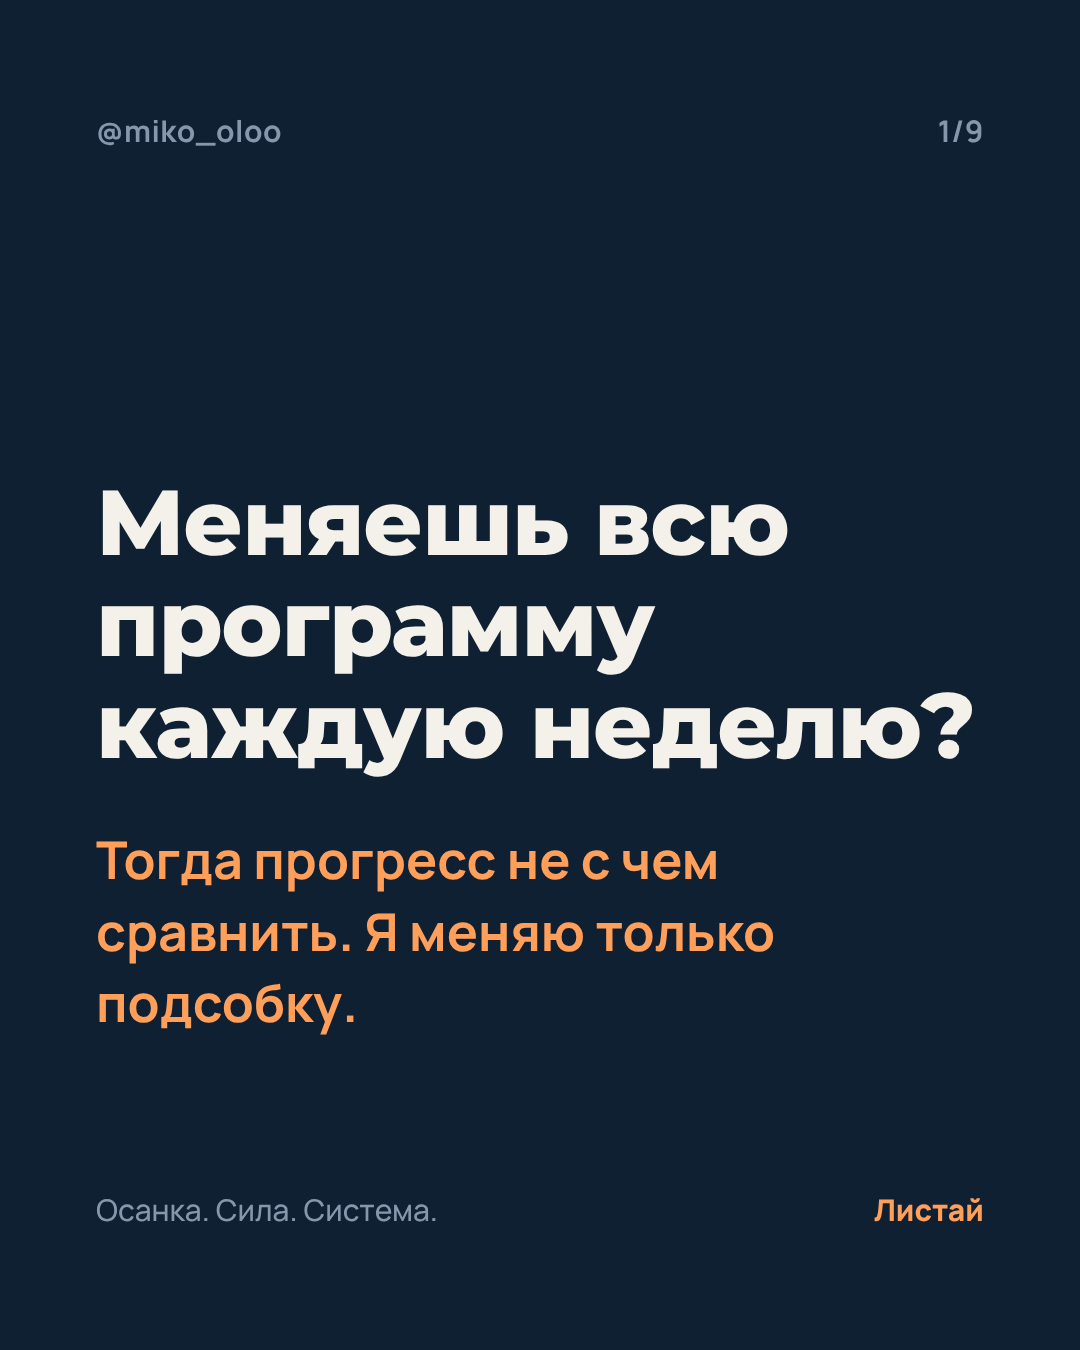
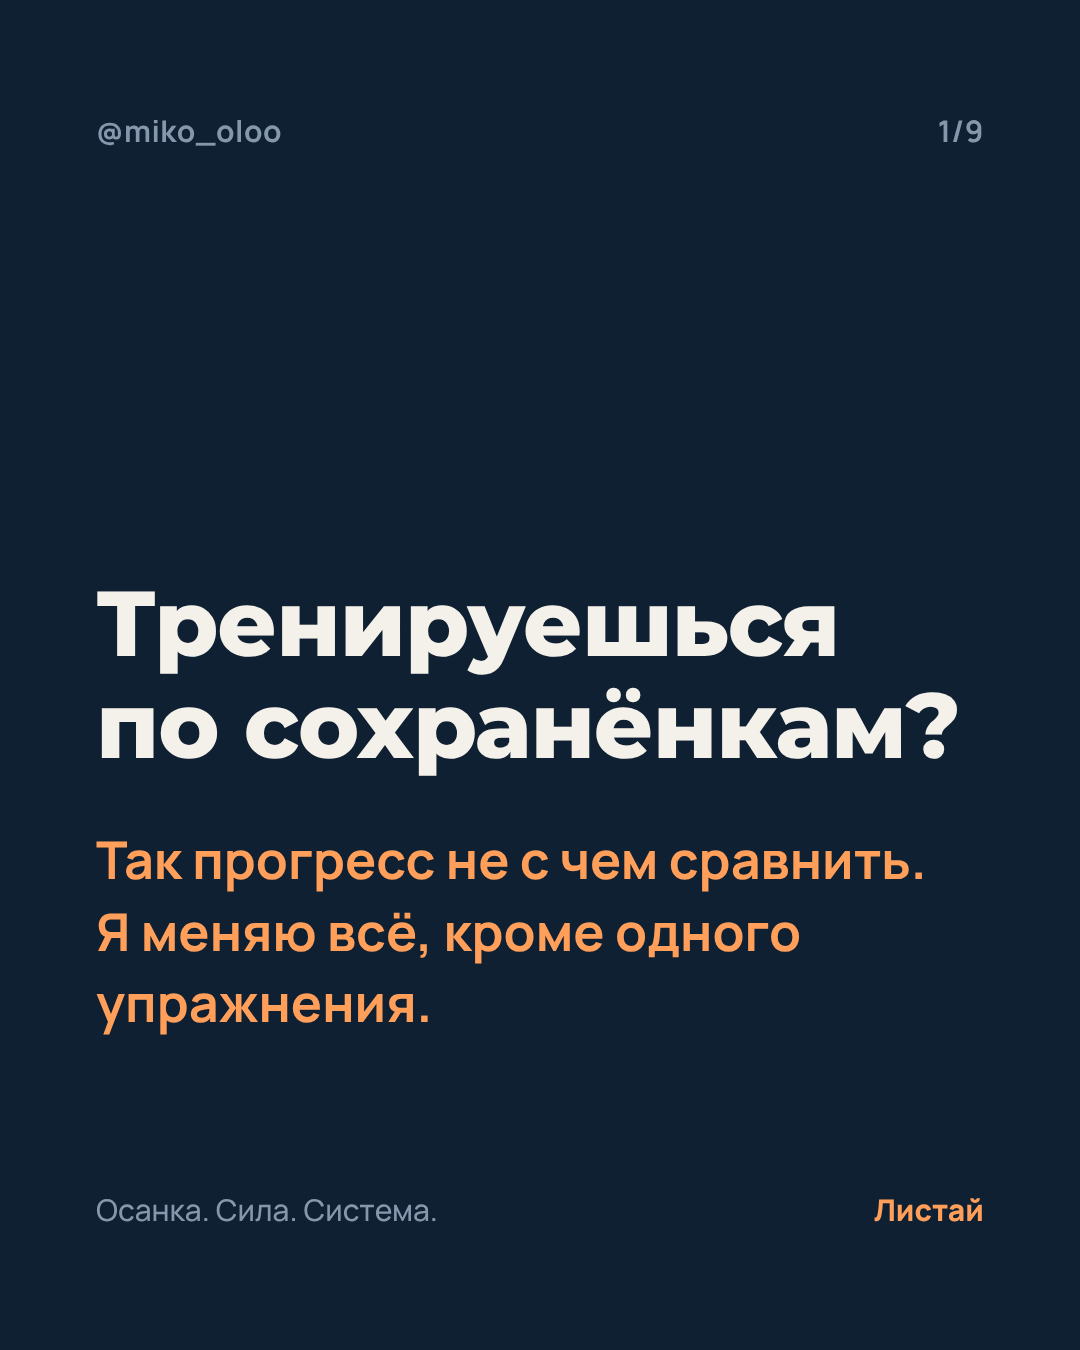
Карусели: новые хуки обложек от hook-master
Claude-Session: https://claude.ai/code/session_014b6iEBjPGyacsH4fnBbVwQ

Changed region(s): [[0.0917, 0.3422, 0.9167, 0.5911], [0.0917, 0.6222, 0.8556, 0.7778]]

diff --git a/content/carousels/render_slides.js b/content/carousels/render_slides.js
@@ -27,7 +27,7 @@ const fontFaces = ['manrope', 'montserrat', 'unbounded'].flatMap(f => [500, 700,
 }))).join('\n');
 
 const esc = s => s.replace(/&/g, '&amp;').replace(/</g, '&lt;').replace(/>/g, '&gt;');
-const mark = s => WORDS.reduce((t, w) => t.split(w).join(`<span class="kw">${w}</span>`), esc(s));
+const mark = s => WORDS.reduce((t, w) => t.split(w).join(`<span class="kw">${w}</span>`), esc(s)).replace(/\n/g, '<br>');
 
 function bodySize(text, cover, img) {
   if (cover) return 52;

diff --git a/content/PLAN_2_WEEKS.md b/content/PLAN_2_WEEKS.md
@@ -24,7 +24,7 @@
 | № | Дата и время МСК | Формат | Тема | Слово |
 |---|---|---|---|---|
 | 1 | Пн 26.10, 10:00 | Рилс, 30 с, серия ч.1 | Осанка за ноутбуком, ч.1: тест у стены | ОСАНКА |
-| 2 | Вт 27.10, 18:00 | Карусель, 9 слайдов | Стоишь как утка? Протокол сверху вниз | ОСАНКА |
+| 2 | Вт 27.10, 18:00 | Карусель, 9 слайдов | Утиная поясница? А я начинаю с шеи. Протокол сверху вниз | ОСАНКА |
 | 3 | Ср 28.10, 18:00 | Рилс, 30 с | Вес ушёл, а в зеркале мягче: похудение и сушка | СУШКА |
 | 4 | Чт 29.10, 18:00 | Карусель, 9 слайдов | Основное упражнение плюс подсобка | ПРОГРАММА |
 | 5 | Пт 30.10, 18:00 | Рилс, 60-75 с, серия ч.2 | Осанка за ноутбуком, ч.2: 4 упражнения без зала | ОСАНКА |
@@ -100,7 +100,7 @@
 
 ---
 
-## 2. Карусель. Стоишь как утка?
+## 2. Карусель. Утиная поясница? А я начинаю с шеи
 
 - **Дата и время:** вторник 27.10, 18:00 МСК
 - **Формат:** карусель, 9 слайдов. Обложка: твоё фото сбоку в зале, не стоковое
@@ -110,14 +110,14 @@
 - **Дальше:** в следующих двух неделях этот протокол продублировать рилс-серией "Таз вперёд, ч.1-4" (тест; шея и лопатки; поясница и бицепс бедра; ягодичные и стопа), одна часть в неделю
 
 **Хук (2 строки):**
-Стоишь как утка?
-Я начинаю исправлять это не с поясницы, а с шеи.
+Утиная поясница? А я начинаю с шеи.
+Это передний наклон таза. Поясницу я трогаю только через 2 недели.
 
 **Слайды:**
 
 | Слайд | Заголовок | Текст |
 |---|---|---|
-| 1 | Стоишь как утка? | Я начинаю исправлять это не с поясницы, а с шеи. Листай, покажу весь порядок. |
+| 1 | Утиная поясница? А я начинаю с шеи. | Это передний наклон таза. Поясницу я трогаю только через 2 недели. |
 | 2 | Самое частое нарушение у моих клиентов | Передний наклон таза. Сильный прогиб в пояснице, живот вперёд. Часто идёт в паре с сутулостью и шеей вперёд. Поэтому я иду по телу сверху вниз, а не латаю одну поясницу. |
 | 3 | Порядок | Шея и лопатки с первого дня. Через 2 недели поясница и бицепс бедра. Параллельно ягодичные, стопа, растяжка и пресс. |
 | 4 | Шея и лопатки | Сгибание шеи с блином. Тяга горизонтального блока в наклоне широким прямым хватом, локти в стороны, 4 по 15. Сначала лопатки, потом руки. Плечи от ушей. |
@@ -200,14 +200,14 @@
 - **JSON для рендера:** content/carousels/carousels.json, id `c2_osnovnoe_podsobka`
 
 **Хук (2 строки):**
-Меняешь всю программу каждую неделю?
-Тогда прогресс не с чем сравнить. Я меняю только подсобку.
+Тренируешься по сохранёнкам?
+Так прогресс не с чем сравнить. Я меняю всё, кроме одного упражнения.
 
 **Слайды:**
 
 | Слайд | Заголовок | Текст |
 |---|---|---|
-| 1 | Меняешь всю программу каждую неделю? | Тогда прогресс не с чем сравнить. Я меняю только подсобку. |
+| 1 | Тренируешься по сохранёнкам? | Так прогресс не с чем сравнить. Я меняю всё, кроме одного упражнения. |
 | 2 | Знаний хватает. Не хватает системы. | Куски информации есть у всех. Нет понимания, как они связаны и что делать, когда всё пошло не по плану. Схема "основное плюс подсобка" отвечает на это. |
 | 3 | Основное выбираю по уровню | Грудь: жим лёжа, жим гантелей или отжимания. Спина: подтягивания с весом, подтягивания или вертикальная тяга. Ноги: присед со штангой, жим ногами или гоблет-присед. Главное, чтобы ты делал его технично и мог расти. |
 | 4 | 4 правила основного | Минимум 4 рабочих подхода. Всегда первым, на свежую голову. На каждой тренировке этой группы. Никогда до отказа. |
@@ -228,7 +228,7 @@
 
 Так видно реальный прогресс: есть одно упражнение, по которому всё сравниваешь. А разнообразие даёт подсобка.
 
-Сохрани. Памятка в Telegram-боте: пиши ПРОГРАММА.
+Эту сохрани: тут система, а не очередная тренировка. Памятка в Telegram-боте: пиши ПРОГРАММА.
 ```
 
 **Хештеги:** #программатренировок #тренировки #силовыетренировки #жимлежа #прогресс #тренажерныйзал #фитнестренер
@@ -292,7 +292,7 @@
 | № | День | Что показать | Текст | Куда ведёт |
 |---|---|---|---|---|
 | 1 | Пн 26.10, после рилса 1 | Скрин рилса 1, стикер "Опрос" | "Ладонь проходит под поясницу? Да / Нет". Следующий кадр: "Полный самотест в боте. Ч.2 в пятницу" | Стикер-ссылка на бота, слово ОСАНКА |
-| 2 | Вт 27.10 | Видео 10 с: ты делаешь тягу блока в наклоне широким хватом | "Стоишь как утка? Вот с чего я начинаю. Не поясница, а лопатки. Весь порядок в новой карусели" | Репост карусели 2 + стикер-ссылка на бота (ОСАНКА) |
+| 2 | Вт 27.10 | Видео 10 с: ты делаешь тягу блока в наклоне широким хватом | "Утиная поясница? Вот с чего я начинаю. Не поясница, а лопатки. Весь порядок в новой карусели" | Репост карусели 2 + стикер-ссылка на бота (ОСАНКА) |
 | 3 | Ср 28.10 | Сантиметровая лента на твоей талии | "Вес или талия: на что смотришь ты?" стикер "Опрос". Следующий кадр: "Мой чек-лист сушки в боте" | Стикер-ссылка на бота, слово СУШКА |
 | 4 | Чт 29.10 | Кадр из зала: основное упражнение, рабочий подход | "Основное упражнение у меня всегда первое и никогда до отказа. Как собрать неделю, пришлёт бот" | Стикер-ссылка на бота, слово ПРОГРАММА |
 | 5 | Пт 30.10 | Ты у стены, дыхание у стены 5-7 с | "Ч.2 вышла: 4 упражнения, если весь день сидел. Самотест в боте" | Репост рилса 5 + стикер-ссылка на бота, слово ОСАНКА |
@@ -310,16 +310,16 @@
 - **JSON для рендера:** content/carousels/carousels.json, id `c3_pyat_pravil_sushki`
 
 **Хук (2 строки):**
-Режешь калории больше чем на 20%?
-Сушка держится на 5 цифрах, и это первая.
+С понедельника на 1200 калорий?
+Сушка держится на 5 цифрах. 1200 среди них нет.
 
 **Слайды:**
 
 | Слайд | Заголовок | Текст |
 |---|---|---|
-| 1 | Режешь калории больше чем на 20%? | Сушка держится на 5 цифрах, и это первая. Сохрани все пять. |
+| 1 | С понедельника на 1200 калорий? | Сушка держится на 5 цифрах. 1200 среди них нет. |
 | 2 | Сначала про цель | Приходят со словами "хочу похудеть". Похудение это минус вес любой ценой: уходят жир, вода и мышцы. Сушка это минус жир при сохранении мышц. Цель не цифра на весах, а форма. |
-| 3 | 1. Дефицит 15-20% | От твоей поддержки, не больше. Формула даёт только старт. Реальную норму показывают первые 2-3 недели. |
+| 3 | 1. Дефицит 15-20% | Не 1200 для всех, а 15-20% от твоей поддержки. Формула даёт только старт. Реальную норму показывают первые 2-3 недели. |
 | 4 | 2. Темп 0,5-1% веса в неделю | Быстрее значит, что уходят мышцы. Взвешивание раз в неделю: утром, натощак, после туалета. И смотрим на талию, а не только на вес. |
 | 5 | 3. Белок 1,8-2,2 г на кг | Сохраняет мышцы и насыщает. Жиры не ниже 0,8-1 г на кг, особенно у девушек: гормоны и цикл. Углеводы это остаток калорий, полностью не убираем. |
 | 6 | 4. Силовые 3-5 раз в неделю | Силовые главные, кардио и шаги вторичны. Рабочие веса держим. Не хватает сил: режем подходы, а не вес. |

diff --git a/content/VIDEO_SHOTLIST.md b/content/VIDEO_SHOTLIST.md
@@ -381,7 +381,7 @@ VK: ссылка
 | 7 | 012 | Отведение назад (кикбэк) в кроссовере | ЯГОДИЦЫ | Кикбэк: выше линии корпуса уже работает поясница |
 | 8 | 005 | Тяга к лицу | ОСАНКА | Упражнение, которое ставлю на каждую тренировку груди |
 | 9 | 027 | Махи гантелями в стороны | ТЕХНИКА | Махи в стороны: локти к потолку, не выше плеч |
-| 10 | 035 | Сгибание шеи с блином | ОСАНКА | Стоишь как утка? Начинаю не с поясницы, а с шеи. Вот первое упражнение |
+| 10 | 035 | Сгибание шеи с блином | ОСАНКА | Утиная поясница? Начинаю не с поясницы, а с шеи. Вот первое упражнение |
 | 11 | 022 | Тяга в наклоне с горбом в пояснице | ОСАНКА | Тяга с горбом в пояснице: да, специально. Кому и зачем |
 | 12 | 078 | Лодочка | ОСАНКА | Лодочка: если поясница оторвалась, упражнение уже не работает |
 | 13 | 110 | Растяжка передней поверхности бедра | ОСАНКА | 2 минуты в конце каждой тренировки при прогибе в пояснице |
